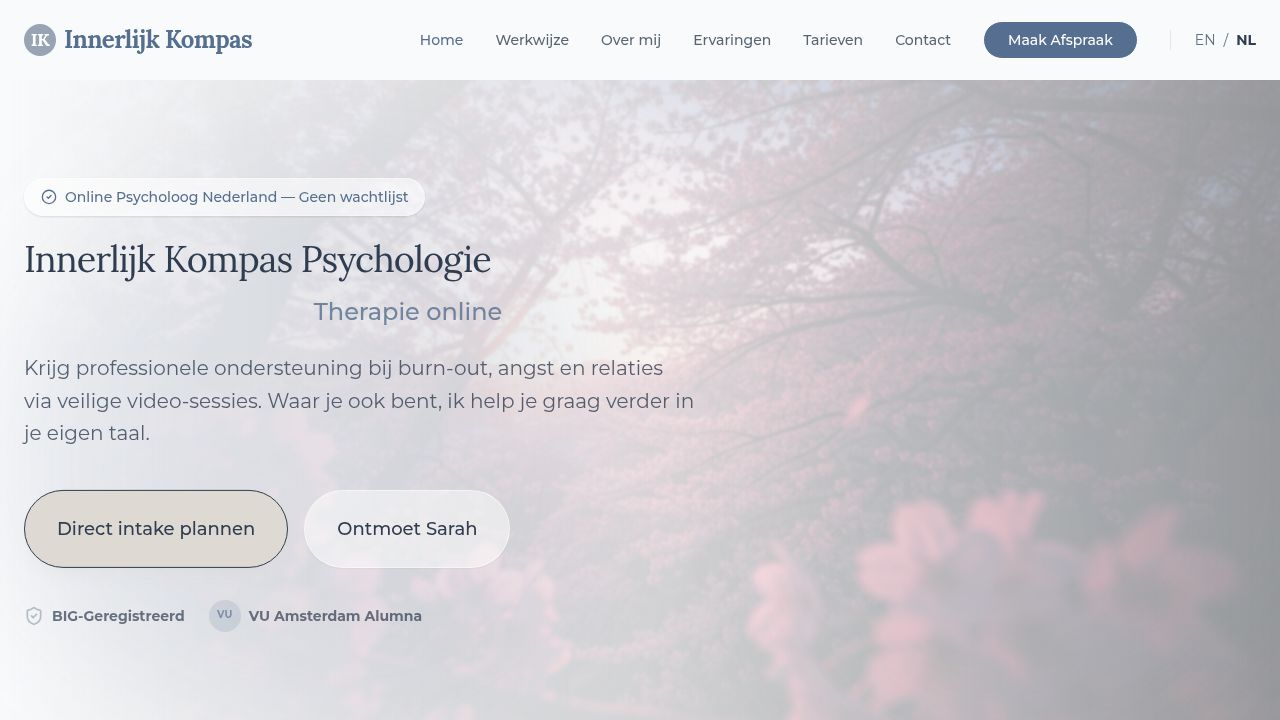
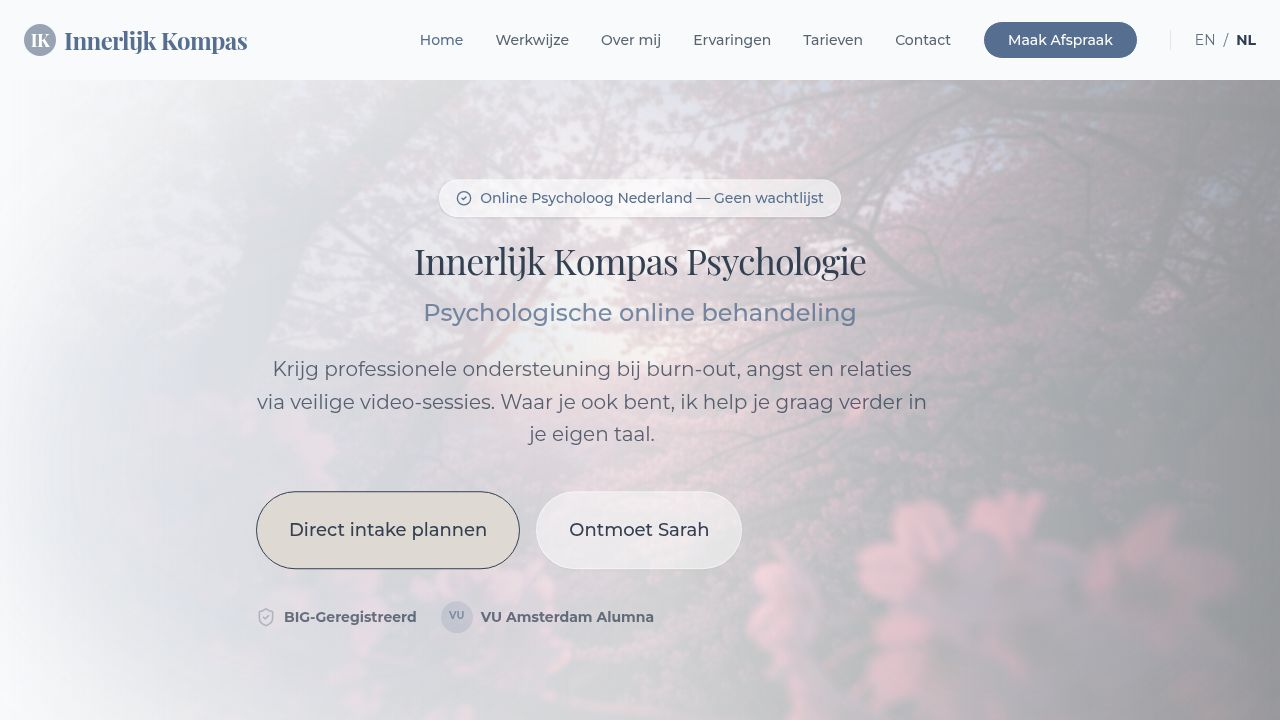
Update typography and content for the psychology practice homepage
Add Playfair Display font and update homepage text.

Replit-Commit-Author: Agent
Replit-Commit-Session-Id: 13851280-0e38-4ad3-bd4b-6e867b622850
Replit-Commit-Checkpoint-Type: full_checkpoint
Replit-Commit-Event-Id: 76cba42f-8991-4b23-8e1e-e32ea69ce220
Replit-Commit-Screenshot-Url: https://storage.googleapis.com/screenshot-production-us-central1/56fe691a-5790-4641-a8d3-dc1aac0e7075/13851280-0e38-4ad3-bd4b-6e867b622850/5C3I5Sl
Replit-Helium-Checkpoint-Created: true

diff --git a/client/src/pages/home.tsx b/client/src/pages/home.tsx
@@ -25,7 +25,7 @@ export default function Home() {
         <div className="absolute bottom-0 left-0 w-[600px] h-[600px] bg-primary/10 blob-shape z-0 blur-3xl" style={{ animationDelay: '-4s' }}></div>
 
         <div className="container mx-auto px-6 relative z-10">
-          <div className="max-w-3xl">
+          <div className="max-w-3xl mx-auto text-center">
             <motion.div
               initial={{ opacity: 0, y: 30 }}
               whileInView={{ opacity: 1, y: 0 }}
@@ -40,8 +40,8 @@ export default function Home() {
               <h1 className="text-3xl md:text-4xl font-serif text-foreground leading-[1.1] mb-4 tracking-tight">
                 Innerlijk Kompas Psychologie
               </h1>
-              <p className="text-xl md:text-2xl font-sans text-primary/80 mb-6 font-medium text-center">
-                Therapie online
+              <p className="text-xl md:text-2xl font-sans text-primary/80 mb-6 font-medium">
+                Psychologische online behandeling
               </p>
               
               <p className="text-lg md:text-xl text-foreground/80 mb-10 leading-relaxed max-w-2xl">

diff --git a/client/index.html b/client/index.html
@@ -20,7 +20,7 @@
     <link rel="icon" type="image/png" href="/favicon.png" />
     <link rel="preconnect" href="https://fonts.googleapis.com">
     <link rel="preconnect" href="https://fonts.gstatic.com" crossorigin>
-    <link href="https://fonts.googleapis.com/css2?family=Lora:ital,wght@0,400..700;1,400..700&family=Montserrat:ital,wght@0,100..900;1,100..900&display=swap" rel="stylesheet">
+    <link href="https://fonts.googleapis.com/css2?family=Lora:ital,wght@0,400..700;1,400..700&family=Montserrat:ital,wght@0,100..900;1,100..900&family=Playfair+Display:ital,wght@0,400..900;1,400..900&display=swap" rel="stylesheet">
     
     <script type="application/ld+json">
     {

diff --git a/client/src/index.css b/client/src/index.css
@@ -32,7 +32,7 @@
   --color-ring: hsl(var(--ring));
   
   --font-sans: 'Montserrat', sans-serif;
-  --font-serif: 'Lora', serif;
+  --font-serif: 'Playfair Display', serif;
 }
 
 :root {
